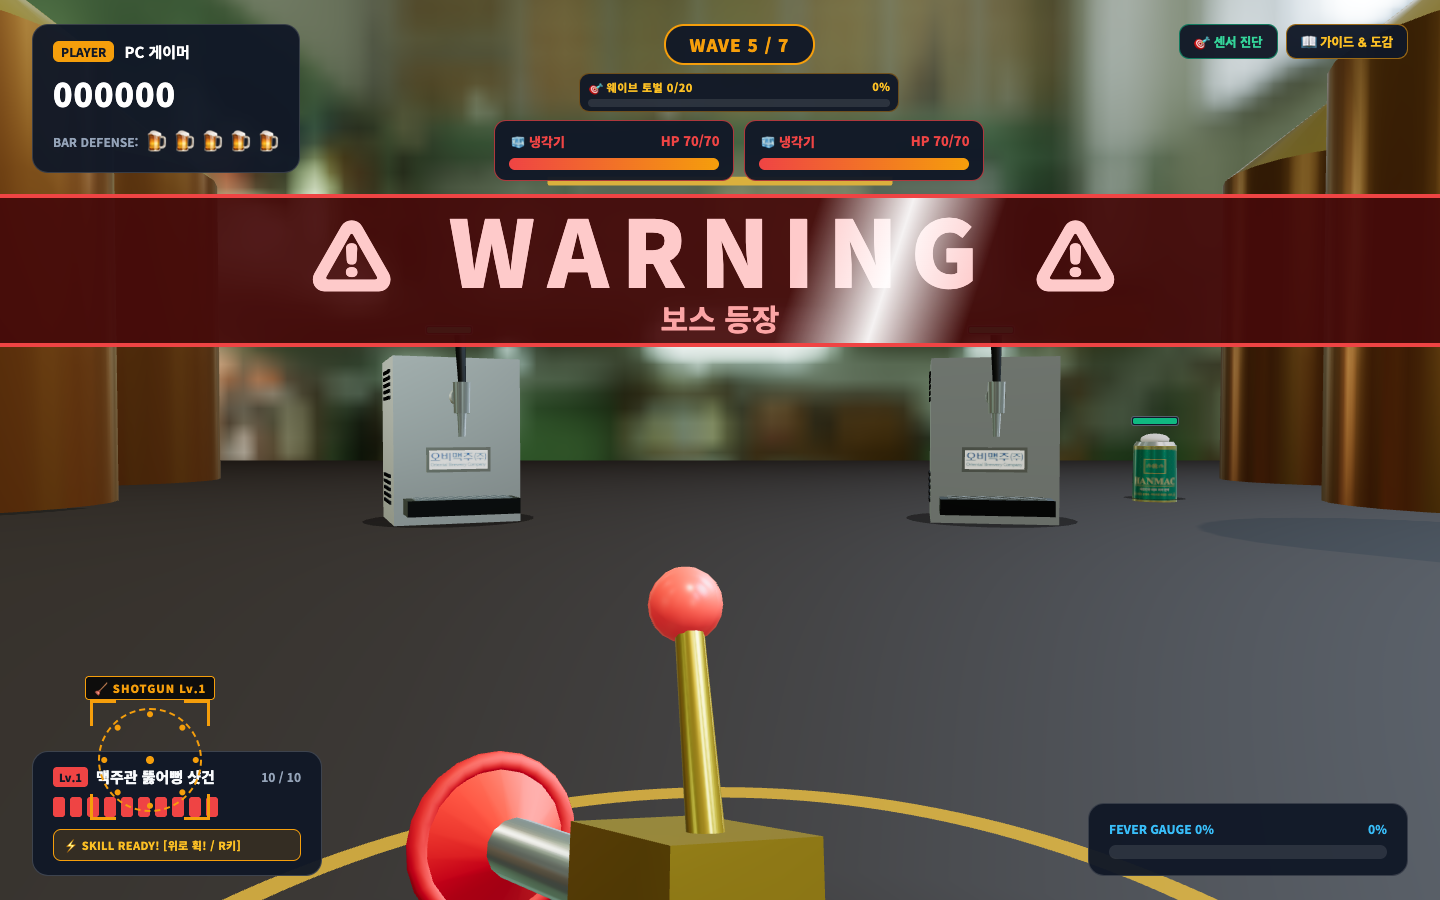
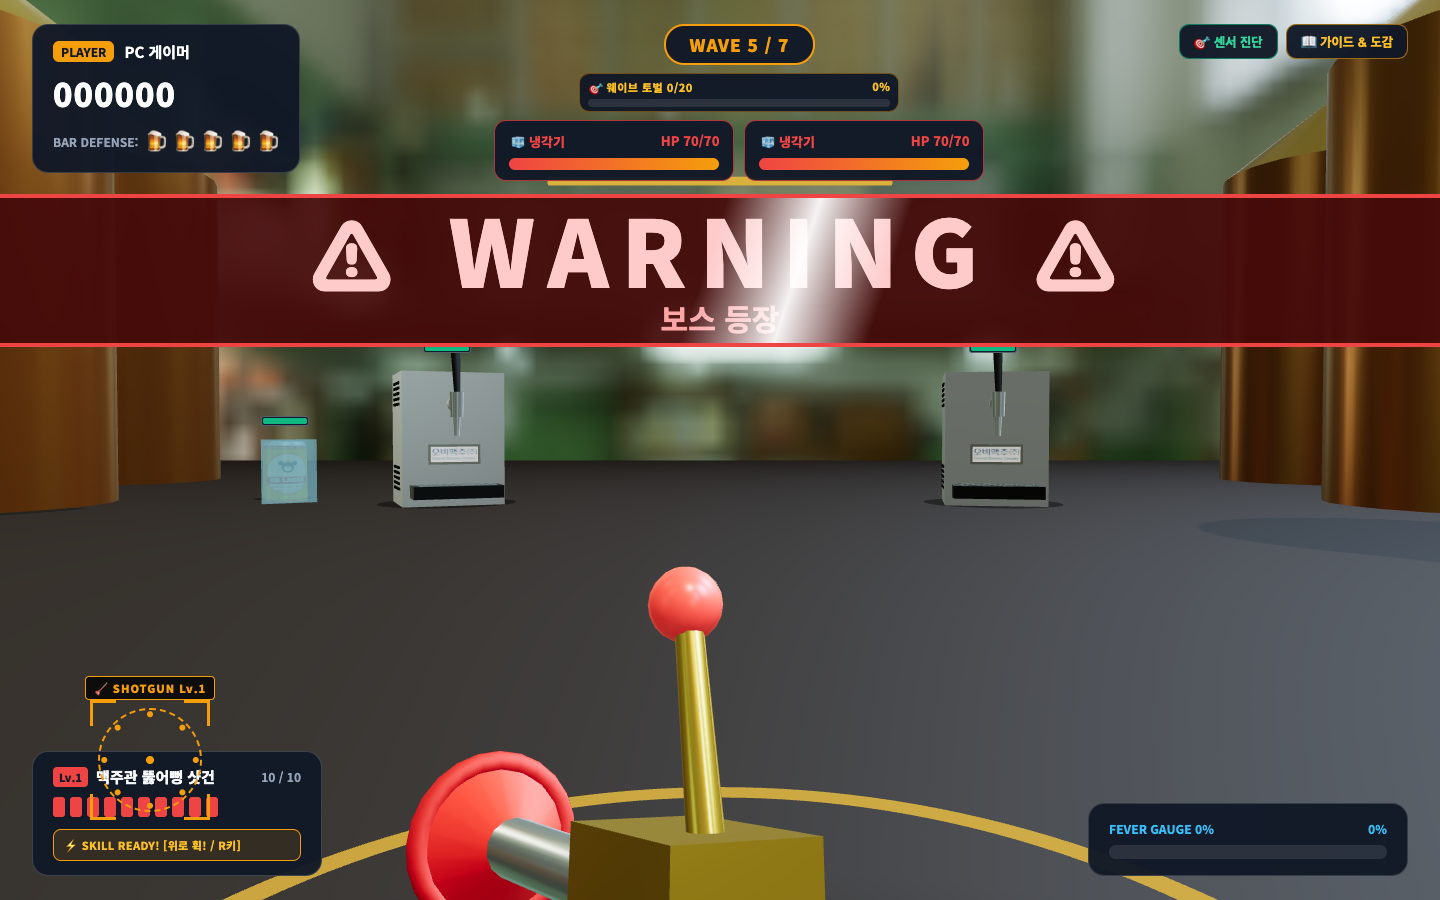
docs(game): sync par times and docs with the new distances and hanmac bomb
Plan: 2026-11-05-boss-distance-gatling-hanmac
Phase: P03-docs-and-verify
Task: T01-docs-par-and-verify

- Re-measure wave par times and record combined bot results
- Describe the hanmac blast, boss-only shells and new distances

diff --git a/src/shared/gameTuning.ts b/src/shared/gameTuning.ts
@@ -138,12 +138,12 @@ export const GAME_TUNING = {
    * cardKillTarget이 null이면 중간 카드가 없다.
    */
   waves: [
-    { waveIndex: 1, parTimeSec: 15, totalSpawns: 20, maxSimultaneous: 5, spawnIntervalMs: 700, kinds: ['pilgood', 'caslight'], cardKillTarget: null, boss: null },
-    { waveIndex: 2, parTimeSec: 19, totalSpawns: 26, maxSimultaneous: 6, spawnIntervalMs: 650, kinds: ['pilgood', 'pilgood', 'caslight', 'obi'], cardKillTarget: null, boss: null },
-    { waveIndex: 3, parTimeSec: 31, totalSpawns: 15, maxSimultaneous: 6, spawnIntervalMs: 700, kinds: ['obi', 'caslight', 'caslight', 'hanmac'], cardKillTarget: null, boss: { coolerHp: [75], kingHp: null, summonKinds: ['obi', 'caslight', 'hanmac'] } },
-    { waveIndex: 4, parTimeSec: 24, totalSpawns: 34, maxSimultaneous: 6, spawnIntervalMs: 600, kinds: ['pilgood', 'caslight', 'bottle'], cardKillTarget: 22, boss: null },
-    { waveIndex: 5, parTimeSec: 37, totalSpawns: 20, maxSimultaneous: 7, spawnIntervalMs: 600, kinds: ['obi', 'hanmac', 'hanmac', 'bottle', 'bottle'], cardKillTarget: null, boss: { coolerHp: [70, 70], kingHp: null, summonKinds: ['pilgood', 'obi', 'hanmac', 'bottle'] } },
-    { waveIndex: 6, parTimeSec: 23, totalSpawns: 40, maxSimultaneous: 7, spawnIntervalMs: 550, kinds: ['pilgood', 'caslight', 'obi', 'hanmac', 'bottle'], cardKillTarget: 26, boss: null },
-    { waveIndex: 7, parTimeSec: 45, totalSpawns: 25, maxSimultaneous: 8, spawnIntervalMs: 600, kinds: ['pilgood', 'caslight', 'obi', 'hanmac', 'hanmac', 'bottle', 'bottle'], cardKillTarget: null, boss: { coolerHp: [90, 90], kingHp: 200, summonKinds: ['pilgood', 'caslight', 'obi', 'hanmac', 'bottle'] } },
+    { waveIndex: 1, parTimeSec: 14, totalSpawns: 20, maxSimultaneous: 5, spawnIntervalMs: 700, kinds: ['pilgood', 'caslight'], cardKillTarget: null, boss: null },
+    { waveIndex: 2, parTimeSec: 18, totalSpawns: 26, maxSimultaneous: 6, spawnIntervalMs: 650, kinds: ['pilgood', 'pilgood', 'caslight', 'obi'], cardKillTarget: null, boss: null },
+    { waveIndex: 3, parTimeSec: 28, totalSpawns: 15, maxSimultaneous: 6, spawnIntervalMs: 700, kinds: ['obi', 'caslight', 'caslight', 'hanmac'], cardKillTarget: null, boss: { coolerHp: [75], kingHp: null, summonKinds: ['obi', 'caslight', 'hanmac'] } },
+    { waveIndex: 4, parTimeSec: 23, totalSpawns: 34, maxSimultaneous: 6, spawnIntervalMs: 600, kinds: ['pilgood', 'caslight', 'bottle'], cardKillTarget: 22, boss: null },
+    { waveIndex: 5, parTimeSec: 35, totalSpawns: 20, maxSimultaneous: 7, spawnIntervalMs: 600, kinds: ['obi', 'hanmac', 'hanmac', 'bottle', 'bottle'], cardKillTarget: null, boss: { coolerHp: [70, 70], kingHp: null, summonKinds: ['pilgood', 'obi', 'hanmac', 'bottle'] } },
+    { waveIndex: 6, parTimeSec: 24, totalSpawns: 40, maxSimultaneous: 7, spawnIntervalMs: 550, kinds: ['pilgood', 'caslight', 'obi', 'hanmac', 'bottle'], cardKillTarget: 26, boss: null },
+    { waveIndex: 7, parTimeSec: 44, totalSpawns: 25, maxSimultaneous: 8, spawnIntervalMs: 600, kinds: ['pilgood', 'caslight', 'obi', 'hanmac', 'hanmac', 'bottle', 'bottle'], cardKillTarget: null, boss: { coolerHp: [90, 90], kingHp: 200, summonKinds: ['pilgood', 'caslight', 'obi', 'hanmac', 'bottle'] } },
   ],
 } as const;

diff --git a/.memory/references/playtest-2026-11-05-skill-guard-ammo.md b/.memory/references/playtest-2026-11-05-skill-guard-ammo.md
@@ -218,3 +218,31 @@
 | 로고가 보이는가 | OB 로고를 알아볼 수 있다 | | |
 
 조정 위치: `GAME_TUNING.shell`(`springHz`, `springAmount`, `baseY`), `boss.warningMs`, `CrosshairOverlay.tsx`의 `reticleOpacity`.
+
+---
+
+# 보스 거리·개틀링·오비·한맥 추가분 (2026-11-05, boss-distance-gatling-hanmac)
+
+웨이브 기준 시간: 14 / 18 / 28 / 23 / 35 / 24 / 44초 (정확 봇 30판, 3무기 평균).
+
+## 합산 봇 클리어율 (100판, 정확 / 보통 / 부정확, 탭)
+| 무기 | 결과 | 보스전 시간(3·5·7웨이브, 보통) |
+|---|---|---|
+| 샷건 | 96 / 94 / 85% | 23 / 25 / 35초 |
+| 리볼버 | 100 / 100 / 91~98% | 26 / 23 / 25초 |
+| 개틀링 | 99 / 97 / 87~90% | 13 / 17 / 21초 |
+
+직전 보통 봇은 샷건 32%, 리볼버 82%, 개틀링 65%였다. 크게 쉬워졌으므로 사람이 해 보고 너무 쉬우면 값을 되돌린다.
+
+## 체크리스트 (사람이 채움)
+| 확인 항목 | 기대 |
+|---|---|
+| 보스 똥을 볼 시간이 충분한가 | 약 3.8초, 반응할 수 있다 |
+| 14m 보스가 너무 작거나 맞히기 어렵지 않은가 | 조준할 만하다 |
+| 부하가 너무 가깝게 떨어지지 않는가 | 대응할 시간이 있다 |
+| 개틀링 탄창이 충분한가 | 장전이 덜 답답하다 |
+| 2웨이브 난이도가 괜찮은가 | 오비만 몰려오지 않는다 |
+| 한맥 폭발이 재미있는가 | 빨간 띠로 알아보고 노리게 된다 |
+| 보스 없을 때 똥이 안 나오는가 | 나오지 않는다 |
+
+조정 위치: `boss.stopRadiusM`, `boss.minionDrop`, `maxAmmoByWeapon.gatling`, `waves[i].kinds`, `monsters.hanmac`.

diff --git a/.memory/current.md b/.memory/current.md
@@ -4,13 +4,13 @@
 [보스 거리, 개틀링, 오비 비중, 한맥 폭탄 캔](./plans/2026-11-05-boss-distance-gatling-hanmac.md)
 
 ## Active Phase
-[P01 튜닝 값](./phases/2026-11-05-boss-distance-gatling-hanmac/P01-rule-values/phase.md)
+[P03 문서와 검증](./phases/2026-11-05-boss-distance-gatling-hanmac/P03-docs-and-verify/phase.md)
 
 ## Active Task
-[T01 거리, 탄창, 오비 비중](./phases/2026-11-05-boss-distance-gatling-hanmac/P01-rule-values/T01-tuning-values.md)
+(이 계획의 Task는 모두 완료) 사람 플레이 대기: [playtest-visual-feedback P03-T02](./phases/2026-11-05-playtest-visual-feedback/P03-docs-and-verify/T02-final-verification-and-playtest.md)
 
 ## Status
-- T01 구현 시작 준비 완료
+- 보스 거리·개틀링·오비·한맥 계획 구현과 자동 검증 완료. **사람 직접 플레이 대기**
 
 ## Paused Plan
 - `2026-11-05-playtest-visual-feedback` P03-T02(사람 플레이): 자동 검증 완료, 느낌 확인 대기.
@@ -20,4 +20,4 @@
 - 랭킹 v5 여부는 개틀링 플레이 뒤 사용자에게 묻는다.
 
 ## Next Step (IMPORTANT)
-T01 청사진을 읽고 `src/shared/gameTuning.ts` 구현 시작
+사용자가 플레이한 뒤 느낌을 말한다. 체크리스트: `.memory/references/playtest-2026-11-05-skill-guard-ammo.md` 끝. 봇 클리어율이 크게 올랐으니(보통 94~100%) 너무 쉬운지 확인한다. 이후 열린 플레이 Task와 랭킹 v5 여부를 묻는다.

diff --git a/.memory/plans/2026-11-05-boss-distance-gatling-hanmac.md b/.memory/plans/2026-11-05-boss-distance-gatling-hanmac.md
@@ -8,6 +8,6 @@
 ## Phases
 | Phase | Status | Summary | Blueprint |
 | :--- | :--- | :--- | :--- |
-| P01 | `in_progress` | 튜닝 값 변경(거리, 탄창, 오비 비중) | [P01](../phases/2026-11-05-boss-distance-gatling-hanmac/P01-rule-values/phase.md) |
-| P02 | `pending` | 한맥 발사 제거와 폭탄 캔 | [P02](../phases/2026-11-05-boss-distance-gatling-hanmac/P02-hanmac-bomb/phase.md) |
-| P03 | `pending` | 기준 시간, 문서, 스크린샷, 최종 검증 | [P03](../phases/2026-11-05-boss-distance-gatling-hanmac/P03-docs-and-verify/phase.md) |
+| P01 | `done` | 튜닝 값 변경(거리, 탄창, 오비 비중) | [P01](../phases/2026-11-05-boss-distance-gatling-hanmac/P01-rule-values/phase.md) |
+| P02 | `done` | 한맥 발사 제거와 폭탄 캔 | [P02](../phases/2026-11-05-boss-distance-gatling-hanmac/P02-hanmac-bomb/phase.md) |
+| P03 | `done` | 기준 시간, 문서, 스크린샷, 최종 검증 | [P03](../phases/2026-11-05-boss-distance-gatling-hanmac/P03-docs-and-verify/phase.md) |

diff --git a/.memory/phases/2026-11-05-boss-distance-gatling-hanmac/P03-docs-and-verify/T01-docs-par-and-verify.md b/.memory/phases/2026-11-05-boss-distance-gatling-hanmac/P03-docs-and-verify/T01-docs-par-and-verify.md
@@ -1,6 +1,6 @@
 # Task: T01 기준 시간, 문서, 스크린샷, 검증
 
-## Status: pending
+## Status: done
 
 ## Goal
 웨이브 기준 시간과 문서가 새 규칙과 맞고 자동 검증을 통과한다.
@@ -18,7 +18,7 @@
 - `scripts/capture-boss-and-shell.mjs` 재실행.
 
 ## Acceptance Criteria
-- [ ] 문서에 옛 규칙이 없고 전체 검증이 통과한다.
+- [x] 문서에 옛 규칙이 없고 전체 검증이 통과한다.
 
 ## Validation
 - `npm test && npx tsc --noEmit && npm run build`, `node scripts/playtest-bot.mjs`, `node scripts/verify-live.mjs` — 통과
@@ -38,6 +38,6 @@ Co-Authored-By: Claude Opus 5.5 <noreply@anthropic.com>
 ```
 
 ## Progress
-- [ ] 구현 완료
-- [ ] 검증 통과
+- [x] 구현 완료
+- [x] 검증 통과
 - commit: pending

diff --git a/docs/비어 크러셔 상세설계서.md b/docs/비어 크러셔 상세설계서.md
@@ -335,8 +335,6 @@ function updateEnemyRadialMovement(target: TargetEntity, dt: number) {
     updateBossMovement(now); // 1대: 좌우 왕복, 2대: 교차, 대왕 동반: 양옆 + 대왕 중앙
   } else if (target.kind === 'pilgood' && target.radius <= PILGOOD_CHARGE_RADIUS) {
     target.radius -= target.speed * PILGOOD_CHARGE_MULT * dt;   // 지상 돌격
-  } else if (target.kind === 'hanmac' && target.radius <= HANMAC_STOP_RADIUS) {
-    // (삭제됨) 한맥은 더 이상 멈추지 않는다.                          // 처치되면 다음 update에서 반경 4m 폭발
   } else {
     target.radius -= target.speed * dt;
   }

diff --git a/.memory/phases/2026-11-05-boss-distance-gatling-hanmac/P03-docs-and-verify/phase.md b/.memory/phases/2026-11-05-boss-distance-gatling-hanmac/P03-docs-and-verify/phase.md
@@ -3,7 +3,7 @@
 ## Tasks
 | Task | Status | Summary | Blueprint |
 | :--- | :--- | :--- | :--- |
-| T01 | `pending` | 기준 시간, 문서, 스크린샷, 검증 | [T01](./T01-docs-par-and-verify.md) |
+| T01 | `done ✅` | 기준 시간, 문서, 스크린샷, 검증 | [T01](./T01-docs-par-and-verify.md) |
 
 ## Progress
-- done: 0/1 (active: T01)
+- done: 1/1 (active: 없음)
